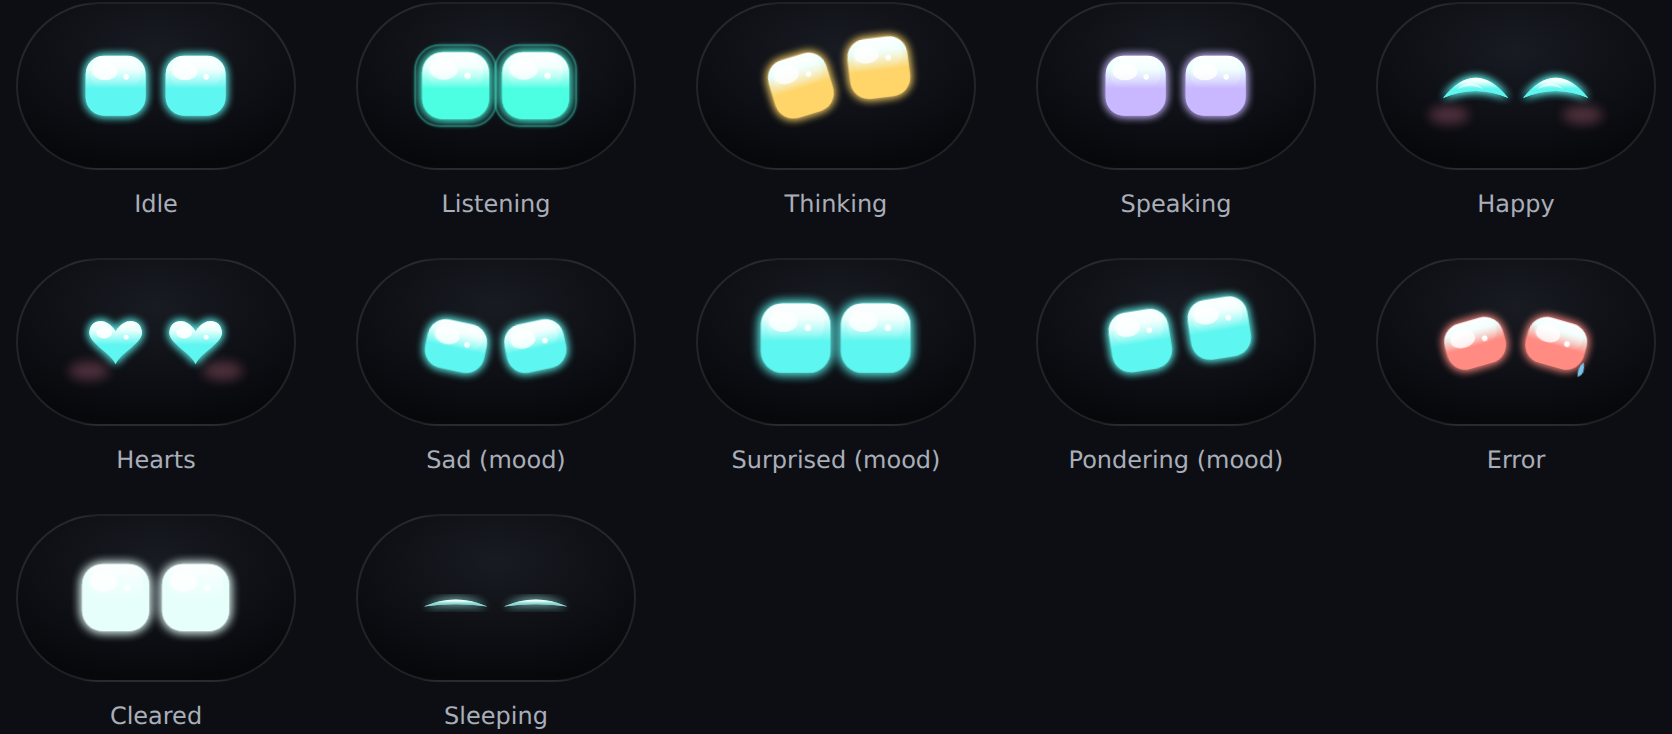
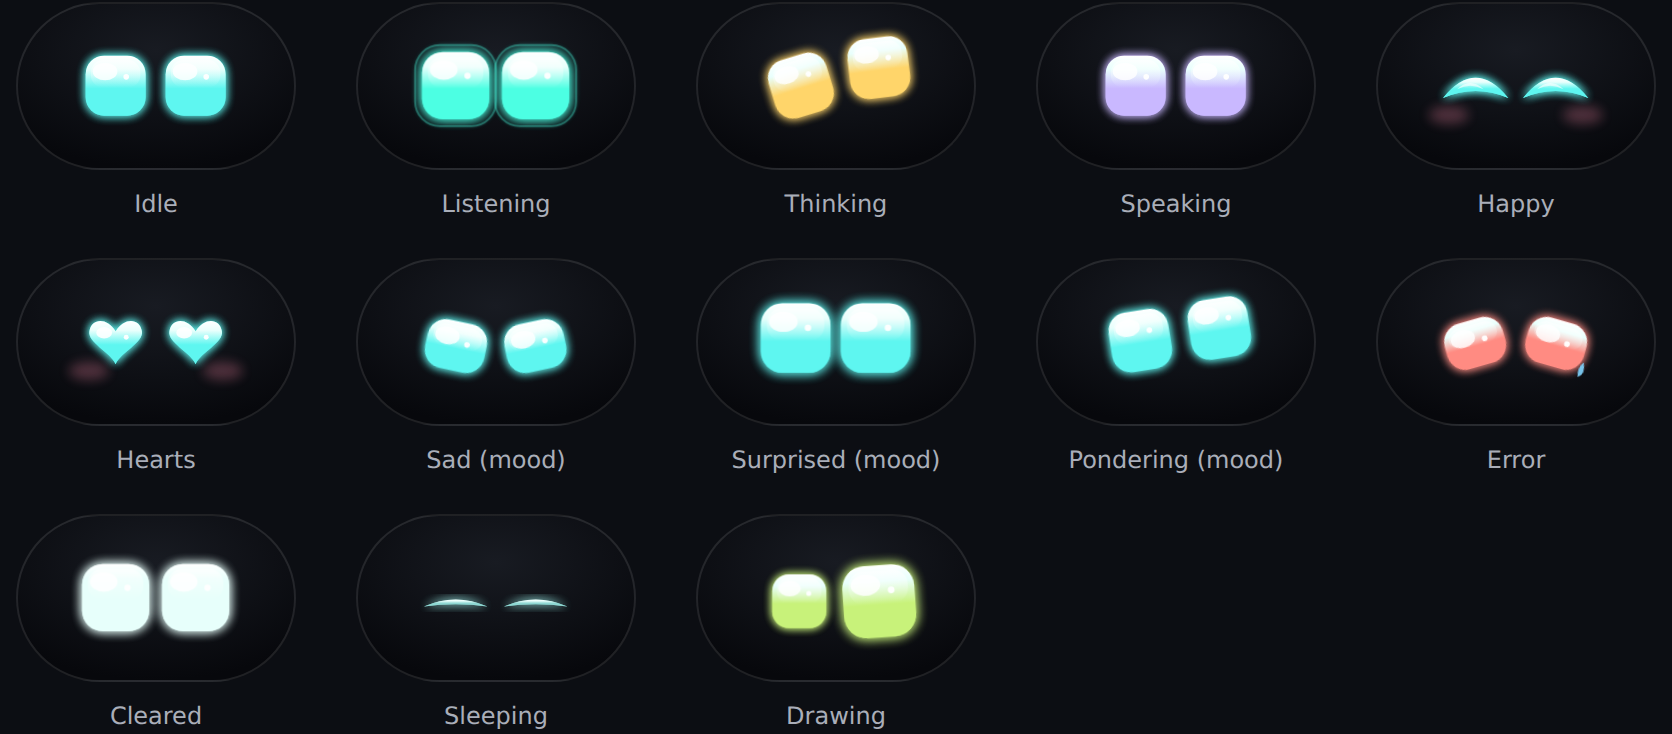
Docs: Drawing in the eyes image and visuals in the user guide
Part of #64

Changed region(s): [[0.4354, 0.7493, 0.5598, 0.8992], [0.4665, 0.9591, 0.5287, 0.9891]]

diff --git a/docs/USING.md b/docs/USING.md
@@ -24,6 +24,12 @@ Winku keeps one conversation going until you clear it. The bubble under the bar 
   <img src="media/transcript.png" alt="The transcript open under the bar: a question, a PowerShell command Winku ran, its answer with a code block, a saved memory with Undo, and a thank-you." width="440">
 </p>
 
+## Visuals
+
+When a picture says more than words, Winku draws a visual into its reply: a chart, a table or a diagram. You can ask for one, or it draws one on its own. Most replies stay text.
+
+While it draws, the eyes turn lime and the bubble shows a shimmering "Drawing" line. Click a visual to see it larger, or pick "Open in browser" to see it in your browser. Press `Esc` to step back, or click elsewhere with the bar open. It stays in the thread, so the transcript keeps it. A visual can load pictures or scripts from the web, the way a web page does. Nothing about you is sent with them.
+
 ## Actions
 
 Select text in any app and press `Ctrl+Alt+1`. The defaults are Rewrite, Fix grammar, Shorter (each replaces the selection, and `Ctrl+Z` in that app undoes it), Explain (shows in the bar) and Do it (runs it as a task with tools). You can edit all five in Settings > Actions.

diff --git a/docs/EYES.md b/docs/EYES.md
@@ -1,9 +1,9 @@
 # The eyes
 
-The eyes show what Winku is doing. They turn teal while you talk, amber while the model thinks, and lavender while it answers. They close into happy arcs when a reply lands, and slowly fall asleep when nothing has happened for a while.
+The eyes show what Winku is doing. They turn teal while you talk, amber while the model thinks, lavender while it answers, and lime while it draws a visual. They close into happy arcs when a reply lands, and slowly fall asleep when nothing has happened for a while.
 
 <p align="center">
-  <img src="media/eyes.png" alt="Twelve eye states: idle, listening, thinking, speaking, happy, hearts, sad, surprised, pondering, error, cleared and sleeping." width="720">
+  <img src="media/eyes.png" alt="Thirteen eye states: idle, listening, thinking, speaking, happy, hearts, sad, surprised, pondering, error, cleared, sleeping and drawing." width="720">
 </p>
 
 - **Context.** The lids droop a little as the conversation fills the model's context, so you can tell when it's time to clear it.
